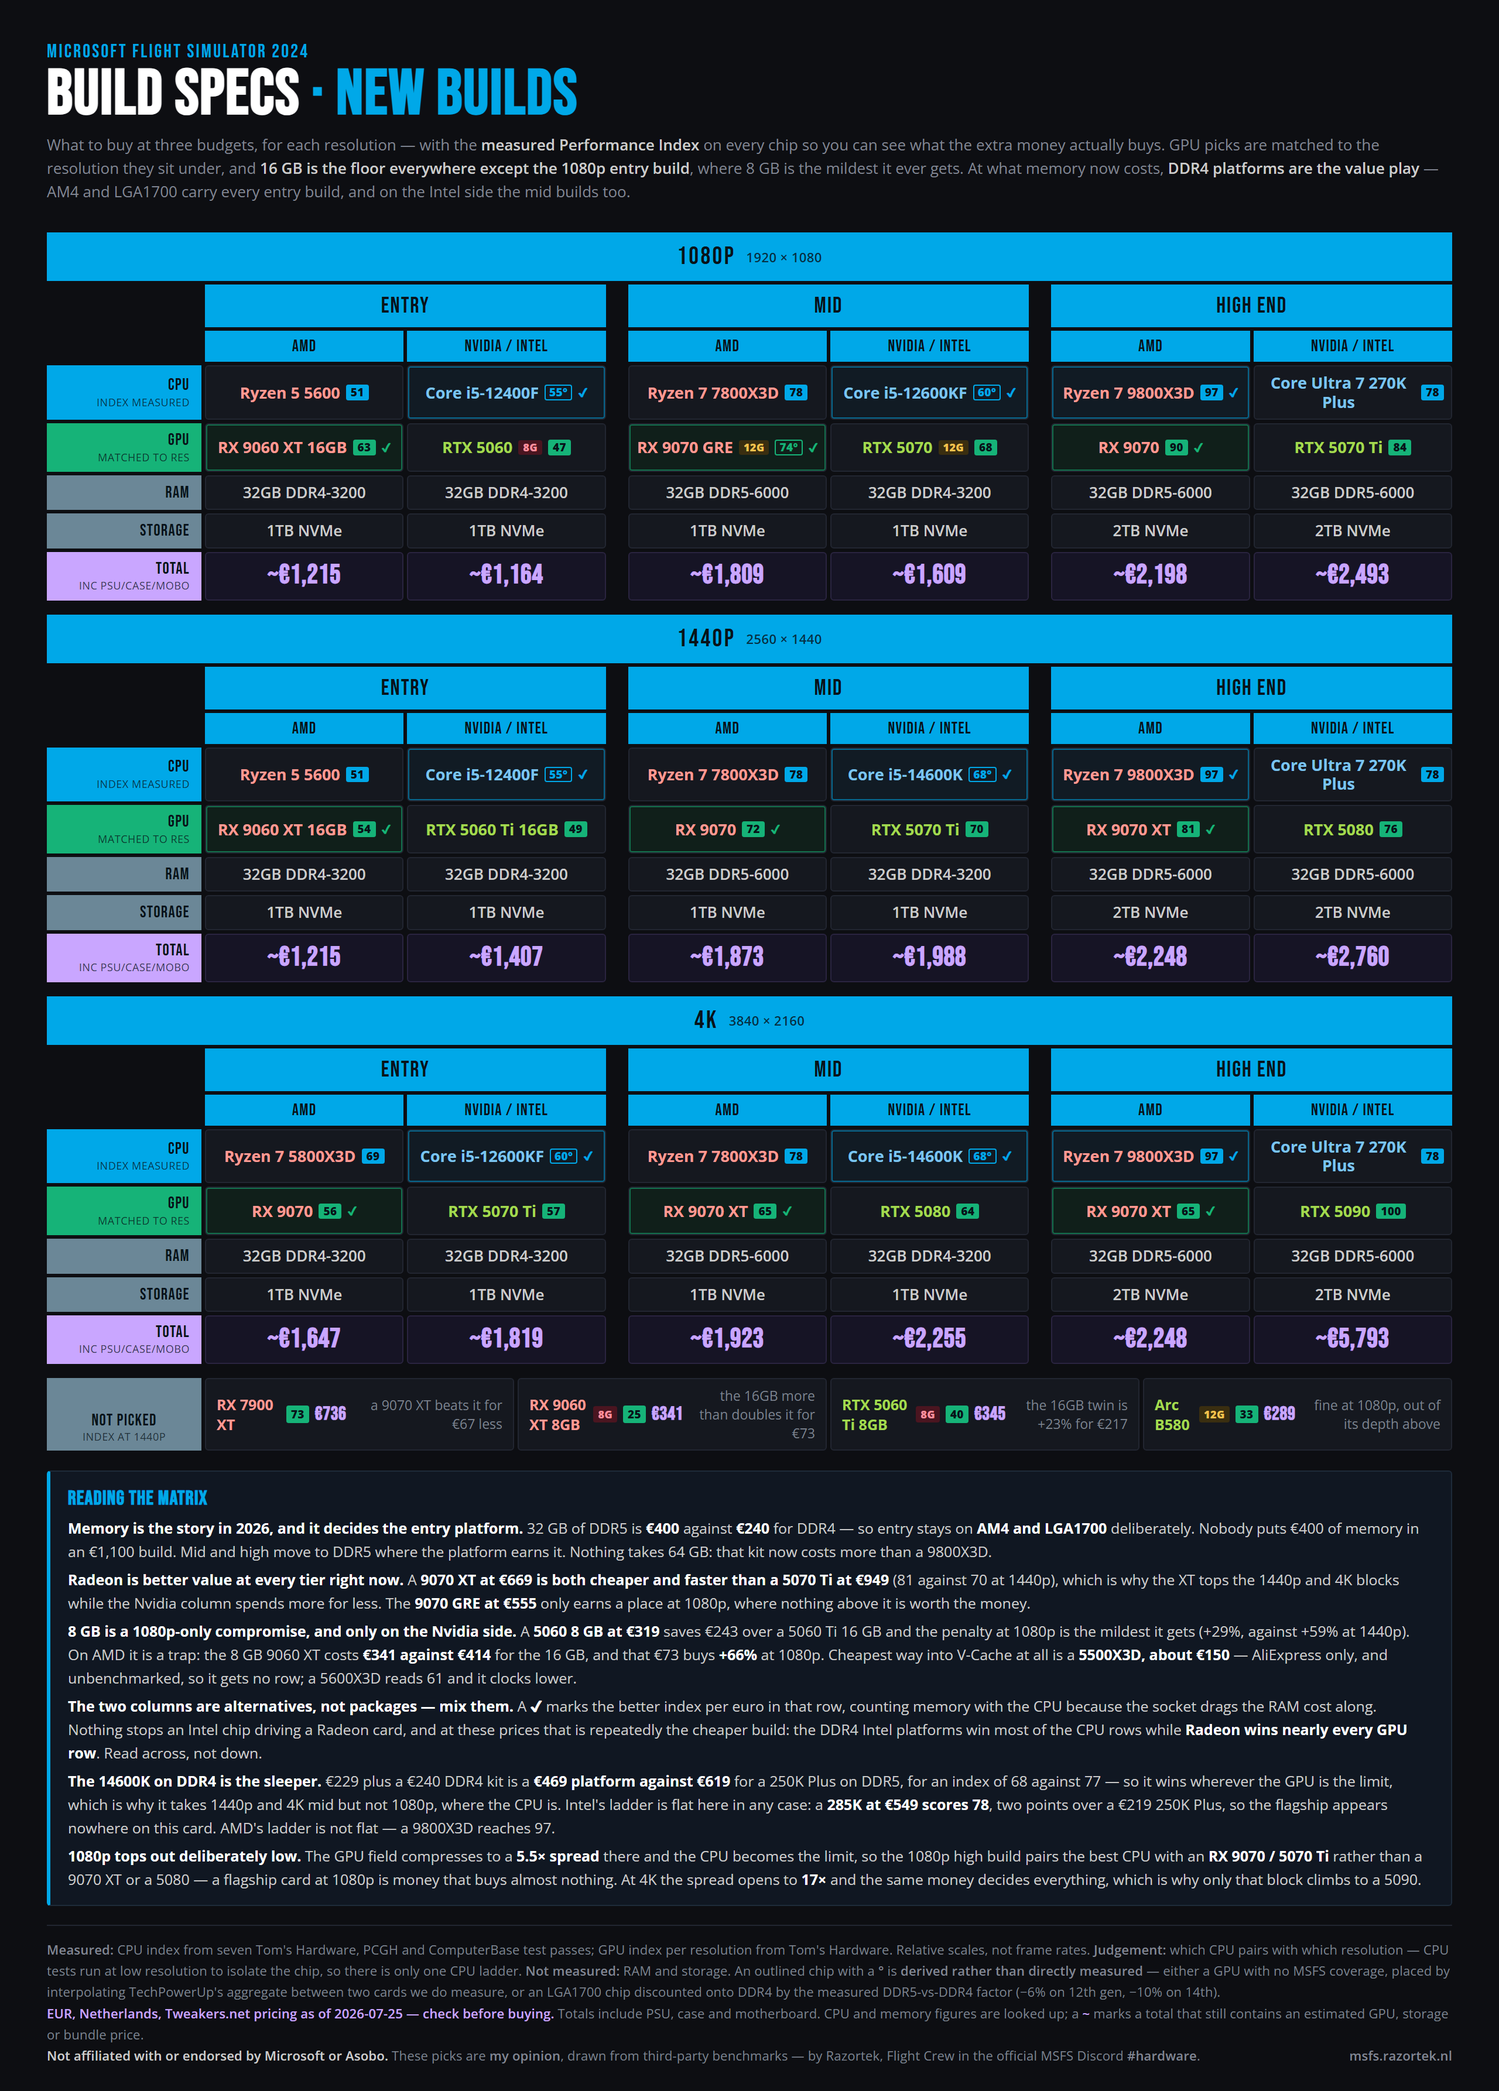
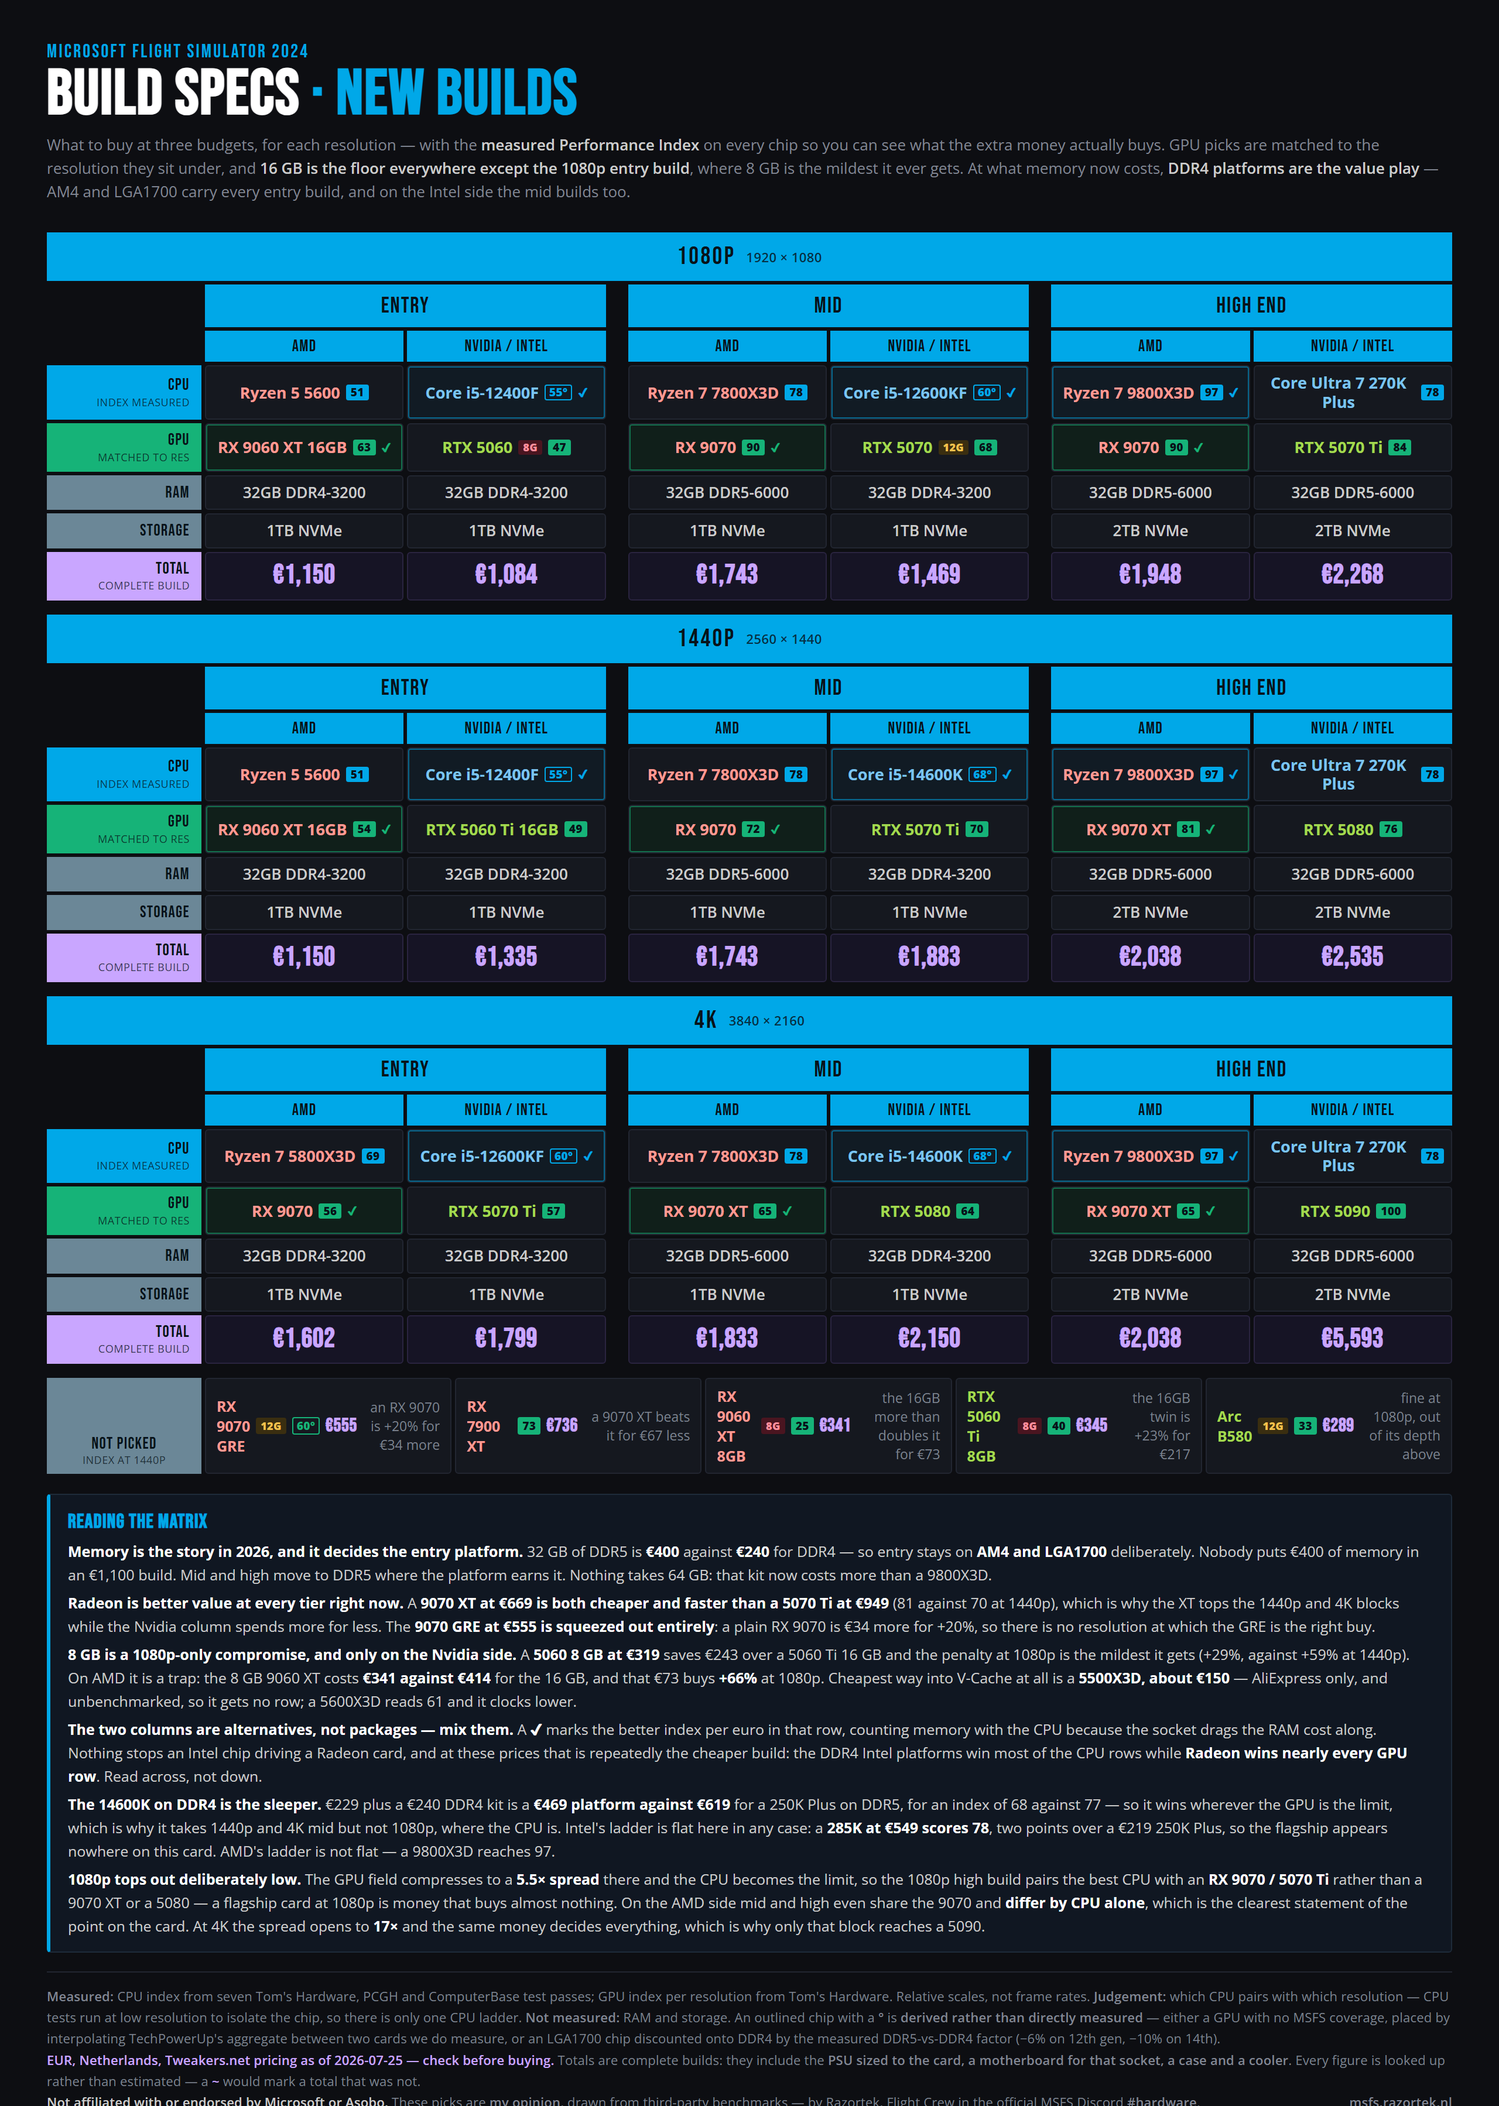
Real PSU/board/case/cooler prices; RX 9070 at 589 squeezes out the GRE
Replaces the six estimated bundle figures with a component model composed
per build, so every total on the card is now a looked-up figure and no build
carries a ~ any more.

  PSU     sized by the card it feeds, 50 to 115 EUR across five tiers
  board   by socket and memory type, with a dearer tier for flagships and
          K-series parts (9800X3D, 14600K) that want more than a bargain VRM
  cooler  120mm single tower, dual tower, or a 360mm AIO for the hot Intel
          parts -- so a 270K Plus carries 75 EUR of cooling and a 5600 15
  case    75 EUR flat

The rules live in make_build_table.py and the prices in the CSV, so the
bundle follows the picks automatically instead of being a per-tier guess.
Totals drop 60-200 EUR as a result: the old flat bundles were too generous
at entry and too mean at the top.

The real 9070 price at 589 also removes the GRE from the matrix again. At 34
EUR less for 20% fewer points it is dominated, so 1080p mid takes the plain
9070 and the GRE returns to the "not picked" strip with that as its reason.
That leaves 1080p mid and high sharing the 9070 and differing by CPU alone,
which is the sharpest statement of the card's own argument: above that card,
1080p is buying nothing.

Changed region(s): [[0.0312, 0.1243, 0.9688, 1.0], [0.0312, 0.0622, 0.9062, 0.0932]]

diff --git a/tierlist_card_build.html b/tierlist_card_build.html
@@ -165,8 +165,8 @@ h1 em{font-style:normal;color:var(--acc)}
     <p><b>Radeon is better value at every tier right now.</b> A <b>9070 XT at €669 is both
     cheaper and faster than a 5070 Ti at €949</b> (81 against 70 at 1440p), which is why
     the XT tops the 1440p and 4K blocks while the Nvidia column spends more for less. The
-    <b>9070 GRE at €555</b> only earns a place at 1080p, where nothing above it is worth
-    the money.</p>
+    <b>9070 GRE at €555 is squeezed out entirely</b>: a plain RX 9070 is €34 more for +20%,
+    so there is no resolution at which the GRE is the right buy.</p>
     <p><b>8 GB is a 1080p-only compromise, and only on the Nvidia side.</b> A
     <b>5060 8 GB at €319</b> saves €243 over a 5060 Ti 16 GB and the penalty at 1080p is
     the mildest it gets (+29%, against +59% at 1440p). On AMD it is a trap: the 8 GB
@@ -187,9 +187,10 @@ h1 em{font-style:normal;color:var(--acc)}
     <p><b>1080p tops out deliberately low.</b> The GPU field compresses to a
     <b>5.5× spread</b> there and the CPU becomes the limit, so the 1080p high build pairs
     the best CPU with an <b>RX 9070 / 5070 Ti</b> rather than a 9070 XT or a 5080 — a
-    flagship card at 1080p is money that buys almost nothing. At 4K the spread opens to
-    <b>17×</b> and the same money decides everything, which is why only that block climbs
-    to a 5090.</p>
+    flagship card at 1080p is money that buys almost nothing. On the AMD side mid and high
+    even share the 9070 and <b>differ by CPU alone</b>, which is the clearest statement of
+    the point on the card. At 4K the spread opens to <b>17×</b> and the same money decides
+    everything, which is why only that block reaches a 5090.</p>
   </div>
 
   <div class="foot">
@@ -203,9 +204,10 @@ h1 em{font-style:normal;color:var(--acc)}
     LGA1700 chip discounted onto DDR4 by the measured DDR5-vs-DDR4 factor (−6% on 12th
     gen, −10% on 14th).<br/>
     <b class="price">EUR, Netherlands, Tweakers.net pricing as of <span id="pon"></span> —
-    check before buying.</b> Totals include PSU, case and motherboard. CPU and memory
-    figures are looked up; a <b class="price">~</b> marks a total that still contains an
-    estimated GPU, storage or bundle price.<br/>
+    check before buying.</b> Totals are complete builds: they include the
+    <b>PSU sized to the card, a motherboard for that socket, a case and a cooler</b>. Every
+    figure is looked up rather than estimated — a <b class="price">~</b> would mark a total
+    that was not.<br/>
     <b class="dis">Not affiliated with or endorsed by Microsoft or Asobo.</b> These picks
     are <b>my opinion</b>, drawn from third-party benchmarks — by Razortek, Flight Crew
     in the official MSFS Discord <b>#hardware</b>.
@@ -219,48 +221,49 @@ const PRICED_ON = "2026-07-25";
 const BUILDS = {
 "1080p": {
   "entry": [
-    { v:"amd", cpu:"Ryzen 5 5600", ci:51, cd:false, cbest:false, gpu:"RX 9060 XT 16GB", gi:63, gd:false, gbest:true, vram:16, ram:"32GB DDR4-3200", sto:"1TB NVMe", eur:1215, approx:true },
-    { v:"nv", cpu:"Core i5-12400F", ci:55, cd:true, cbest:true, gpu:"RTX 5060", gi:47, gd:false, gbest:false, vram:8, ram:"32GB DDR4-3200", sto:"1TB NVMe", eur:1164, approx:true }
+    { v:"amd", cpu:"Ryzen 5 5600", ci:51, cd:false, cbest:false, gpu:"RX 9060 XT 16GB", gi:63, gd:false, gbest:true, vram:16, ram:"32GB DDR4-3200", sto:"1TB NVMe", eur:1150, approx:false },
+    { v:"nv", cpu:"Core i5-12400F", ci:55, cd:true, cbest:true, gpu:"RTX 5060", gi:47, gd:false, gbest:false, vram:8, ram:"32GB DDR4-3200", sto:"1TB NVMe", eur:1084, approx:false }
   ],
   "mid": [
-    { v:"amd", cpu:"Ryzen 7 7800X3D", ci:78, cd:false, cbest:false, gpu:"RX 9070 GRE", gi:74, gd:true, gbest:true, vram:12, ram:"32GB DDR5-6000", sto:"1TB NVMe", eur:1809, approx:true },
-    { v:"nv", cpu:"Core i5-12600KF", ci:60, cd:true, cbest:true, gpu:"RTX 5070", gi:68, gd:false, gbest:false, vram:12, ram:"32GB DDR4-3200", sto:"1TB NVMe", eur:1609, approx:true }
+    { v:"amd", cpu:"Ryzen 7 7800X3D", ci:78, cd:false, cbest:false, gpu:"RX 9070", gi:90, gd:false, gbest:true, vram:16, ram:"32GB DDR5-6000", sto:"1TB NVMe", eur:1743, approx:false },
+    { v:"nv", cpu:"Core i5-12600KF", ci:60, cd:true, cbest:true, gpu:"RTX 5070", gi:68, gd:false, gbest:false, vram:12, ram:"32GB DDR4-3200", sto:"1TB NVMe", eur:1469, approx:false }
   ],
   "high": [
-    { v:"amd", cpu:"Ryzen 7 9800X3D", ci:97, cd:false, cbest:true, gpu:"RX 9070", gi:90, gd:false, gbest:true, vram:16, ram:"32GB DDR5-6000", sto:"2TB NVMe", eur:2198, approx:true },
-    { v:"nv", cpu:"Core Ultra 7 270K Plus", ci:78, cd:false, cbest:false, gpu:"RTX 5070 Ti", gi:84, gd:false, gbest:false, vram:16, ram:"32GB DDR5-6000", sto:"2TB NVMe", eur:2493, approx:true }
+    { v:"amd", cpu:"Ryzen 7 9800X3D", ci:97, cd:false, cbest:true, gpu:"RX 9070", gi:90, gd:false, gbest:true, vram:16, ram:"32GB DDR5-6000", sto:"2TB NVMe", eur:1948, approx:false },
+    { v:"nv", cpu:"Core Ultra 7 270K Plus", ci:78, cd:false, cbest:false, gpu:"RTX 5070 Ti", gi:84, gd:false, gbest:false, vram:16, ram:"32GB DDR5-6000", sto:"2TB NVMe", eur:2268, approx:false }
   ],
 },
 "1440p": {
   "entry": [
-    { v:"amd", cpu:"Ryzen 5 5600", ci:51, cd:false, cbest:false, gpu:"RX 9060 XT 16GB", gi:54, gd:false, gbest:true, vram:16, ram:"32GB DDR4-3200", sto:"1TB NVMe", eur:1215, approx:true },
-    { v:"nv", cpu:"Core i5-12400F", ci:55, cd:true, cbest:true, gpu:"RTX 5060 Ti 16GB", gi:49, gd:false, gbest:false, vram:16, ram:"32GB DDR4-3200", sto:"1TB NVMe", eur:1407, approx:true }
+    { v:"amd", cpu:"Ryzen 5 5600", ci:51, cd:false, cbest:false, gpu:"RX 9060 XT 16GB", gi:54, gd:false, gbest:true, vram:16, ram:"32GB DDR4-3200", sto:"1TB NVMe", eur:1150, approx:false },
+    { v:"nv", cpu:"Core i5-12400F", ci:55, cd:true, cbest:true, gpu:"RTX 5060 Ti 16GB", gi:49, gd:false, gbest:false, vram:16, ram:"32GB DDR4-3200", sto:"1TB NVMe", eur:1335, approx:false }
   ],
   "mid": [
-    { v:"amd", cpu:"Ryzen 7 7800X3D", ci:78, cd:false, cbest:false, gpu:"RX 9070", gi:72, gd:false, gbest:true, vram:16, ram:"32GB DDR5-6000", sto:"1TB NVMe", eur:1873, approx:true },
-    { v:"nv", cpu:"Core i5-14600K", ci:68, cd:true, cbest:true, gpu:"RTX 5070 Ti", gi:70, gd:false, gbest:false, vram:16, ram:"32GB DDR4-3200", sto:"1TB NVMe", eur:1988, approx:true }
+    { v:"amd", cpu:"Ryzen 7 7800X3D", ci:78, cd:false, cbest:false, gpu:"RX 9070", gi:72, gd:false, gbest:true, vram:16, ram:"32GB DDR5-6000", sto:"1TB NVMe", eur:1743, approx:false },
+    { v:"nv", cpu:"Core i5-14600K", ci:68, cd:true, cbest:true, gpu:"RTX 5070 Ti", gi:70, gd:false, gbest:false, vram:16, ram:"32GB DDR4-3200", sto:"1TB NVMe", eur:1883, approx:false }
   ],
   "high": [
-    { v:"amd", cpu:"Ryzen 7 9800X3D", ci:97, cd:false, cbest:true, gpu:"RX 9070 XT", gi:81, gd:false, gbest:true, vram:16, ram:"32GB DDR5-6000", sto:"2TB NVMe", eur:2248, approx:true },
-    { v:"nv", cpu:"Core Ultra 7 270K Plus", ci:78, cd:false, cbest:false, gpu:"RTX 5080", gi:76, gd:false, gbest:false, vram:16, ram:"32GB DDR5-6000", sto:"2TB NVMe", eur:2760, approx:true }
+    { v:"amd", cpu:"Ryzen 7 9800X3D", ci:97, cd:false, cbest:true, gpu:"RX 9070 XT", gi:81, gd:false, gbest:true, vram:16, ram:"32GB DDR5-6000", sto:"2TB NVMe", eur:2038, approx:false },
+    { v:"nv", cpu:"Core Ultra 7 270K Plus", ci:78, cd:false, cbest:false, gpu:"RTX 5080", gi:76, gd:false, gbest:false, vram:16, ram:"32GB DDR5-6000", sto:"2TB NVMe", eur:2535, approx:false }
   ],
 },
 "4K": {
   "entry": [
-    { v:"amd", cpu:"Ryzen 7 5800X3D", ci:69, cd:false, cbest:false, gpu:"RX 9070", gi:56, gd:false, gbest:true, vram:16, ram:"32GB DDR4-3200", sto:"1TB NVMe", eur:1647, approx:true },
-    { v:"nv", cpu:"Core i5-12600KF", ci:60, cd:true, cbest:true, gpu:"RTX 5070 Ti", gi:57, gd:false, gbest:false, vram:16, ram:"32GB DDR4-3200", sto:"1TB NVMe", eur:1819, approx:true }
+    { v:"amd", cpu:"Ryzen 7 5800X3D", ci:69, cd:false, cbest:false, gpu:"RX 9070", gi:56, gd:false, gbest:true, vram:16, ram:"32GB DDR4-3200", sto:"1TB NVMe", eur:1602, approx:false },
+    { v:"nv", cpu:"Core i5-12600KF", ci:60, cd:true, cbest:true, gpu:"RTX 5070 Ti", gi:57, gd:false, gbest:false, vram:16, ram:"32GB DDR4-3200", sto:"1TB NVMe", eur:1799, approx:false }
   ],
   "mid": [
-    { v:"amd", cpu:"Ryzen 7 7800X3D", ci:78, cd:false, cbest:false, gpu:"RX 9070 XT", gi:65, gd:false, gbest:true, vram:16, ram:"32GB DDR5-6000", sto:"1TB NVMe", eur:1923, approx:true },
-    { v:"nv", cpu:"Core i5-14600K", ci:68, cd:true, cbest:true, gpu:"RTX 5080", gi:64, gd:false, gbest:false, vram:16, ram:"32GB DDR4-3200", sto:"1TB NVMe", eur:2255, approx:true }
+    { v:"amd", cpu:"Ryzen 7 7800X3D", ci:78, cd:false, cbest:false, gpu:"RX 9070 XT", gi:65, gd:false, gbest:true, vram:16, ram:"32GB DDR5-6000", sto:"1TB NVMe", eur:1833, approx:false },
+    { v:"nv", cpu:"Core i5-14600K", ci:68, cd:true, cbest:true, gpu:"RTX 5080", gi:64, gd:false, gbest:false, vram:16, ram:"32GB DDR4-3200", sto:"1TB NVMe", eur:2150, approx:false }
   ],
   "high": [
-    { v:"amd", cpu:"Ryzen 7 9800X3D", ci:97, cd:false, cbest:true, gpu:"RX 9070 XT", gi:65, gd:false, gbest:true, vram:16, ram:"32GB DDR5-6000", sto:"2TB NVMe", eur:2248, approx:true },
-    { v:"nv", cpu:"Core Ultra 7 270K Plus", ci:78, cd:false, cbest:false, gpu:"RTX 5090", gi:100, gd:false, gbest:false, vram:32, ram:"32GB DDR5-6000", sto:"2TB NVMe", eur:5793, approx:true }
+    { v:"amd", cpu:"Ryzen 7 9800X3D", ci:97, cd:false, cbest:true, gpu:"RX 9070 XT", gi:65, gd:false, gbest:true, vram:16, ram:"32GB DDR5-6000", sto:"2TB NVMe", eur:2038, approx:false },
+    { v:"nv", cpu:"Core Ultra 7 270K Plus", ci:78, cd:false, cbest:false, gpu:"RTX 5090", gi:100, gd:false, gbest:false, vram:32, ram:"32GB DDR5-6000", sto:"2TB NVMe", eur:5593, approx:false }
   ],
 },
 };
 const NOT_PICKED = [
+  { p:"RX 9070 GRE", eur:555, gi:60, gd:true, vram:12, why:"an RX 9070 is +20% for €34 more" },
   { p:"RX 7900 XT", eur:736, gi:73, gd:false, vram:20, why:"a 9070 XT beats it for €67 less" },
   { p:"RX 9060 XT 8GB", eur:341, gi:25, gd:false, vram:8, why:"the 16GB more than doubles it for €73" },
   { p:"RTX 5060 Ti 8GB", eur:345, gi:40, gd:false, vram:8, why:"the 16GB twin is +23% for €217" },
@@ -275,7 +278,7 @@ const ROWS = [
   { key:"gpu",  label:"GPU",     group:"gpu", sub:"matched to res", chip:"gi" },
   { key:"ram",  label:"RAM",     group:"mem", plain:1 },
   { key:"sto",  label:"Storage", group:"mem", plain:1 },
-  { key:"eur",  label:"Total",   group:"eur", sub:"inc PSU/case/mobo", eur:1 },
+  { key:"eur",  label:"Total",   group:"eur", sub:"complete build", eur:1 },
 ];
 // an Intel CPU sits in the nv column, so the CPU row tints differently to the GPU row
 const tint = (row, v) => row.key === "cpu" ? (v === "amd" ? "amd" : "intel")

diff --git a/make_build_table.py b/make_build_table.py
@@ -57,10 +57,55 @@ DDR4_FACTOR = {12: 0.936, 13: 0.887, 14: 0.898}
 # VRAM for cards that are not in gpu_data.json, so they still get a memory tag.
 VRAM_EXTRA = {'RX 9070 GRE': 12}
 
+# ---- the rest of the build, composed rather than carried as one bundle figure -------
+# PSU sized by the card it has to feed. Anything not listed takes the 650W unit.
+PSU = {
+    'RTX 5090': 'psu_1000',
+    'RTX 5080': 'psu_850', 'RTX 5070 Ti': 'psu_850',
+    'RX 9070 XT': 'psu_850', 'RX 7900 XT': 'psu_850',
+    'RTX 5070': 'psu_750a', 'RX 9070': 'psu_750a',
+    'RTX 5060 Ti 16GB': 'psu_750b', 'RTX 5060 Ti 8GB': 'psu_750b',
+    'RX 9070 GRE': 'psu_750b',
+}
+PSU_DEFAULT = 'psu_650'
+
+# Chips that want a better board than the cheapest B-series: flagships, and K-series
+# parts whose VRM demands are more than a bargain board is happy with.
+MB_GREAT = {'Ryzen 7 9800X3D', 'Core i5-14600K'}
+
+# 360mm AIO territory (the hot Intel parts) and dual-tower territory. Everything else
+# takes the 120mm single tower.
+COOLER_AIO = {'Core Ultra 9 285K', 'Core Ultra 7 270K Plus', 'Core i7-14700K'}
+COOLER_MID = {'Ryzen 7 9800X3D', 'Ryzen 7 7800X3D', 'Ryzen 7 5800X3D',
+              'Core i5-12600KF', 'Core i5-14600K', 'Ryzen 5 9600X'}
+
+
+def psu_for(gpu):
+    return PSU.get(gpu, PSU_DEFAULT)
+
+
+def mb_for(cpu, socket, ram):
+    great = '_great' if cpu in MB_GREAT else ''
+    if socket == 'AM4':
+        return 'mb_am4'                     # no great tier: B550 is the sensible ceiling
+    if socket == 'AM5':
+        return 'mb_am5' + great
+    if socket == 'LGA1851':
+        return 'mb_lga1851'
+    if socket == 'LGA1700':
+        return 'mb_lga1700_ddr4' + great if 'DDR4' in ram else 'mb_lga1700_ddr5' + great
+    return None
+
+
+def cooler_for(cpu):
+    return ('cooler_aio' if cpu in COOLER_AIO else
+            'cooler_mid' if cpu in COOLER_MID else 'cooler_entry')
+
 # Priced, plausible, but beaten on value by something already in the matrix. Listed
 # under it because "why isn't X in here?" is the question that always follows.
 # (part, reason) — index shown is at 1440p.
 NOT_PICKED = [
+    ('RX 9070 GRE', 'an RX 9070 is +20% for €34 more'),
     ('RX 7900 XT', 'a 9070 XT beats it for €67 less'),
     ('RX 9060 XT 8GB', 'the 16GB more than doubles it for €73'),
     ('RTX 5060 Ti 8GB', 'the 16GB twin is +23% for €217'),
@@ -159,8 +204,12 @@ def main():
                 warn('%s is on DDR4 but has no measured DDR4 factor' % cpu)
 
         # total — any missing part kills the total rather than under-reporting it
-        bundle = 'bundle_%s_%s' % (tier, ven)
-        parts = [cpu, gpu, ram, sto, bundle]
+        mb = mb_for(cpu, socket, ram)
+        if mb is None:
+            warn('no motherboard rule for %s on %r' % (cpu, socket))
+        parts = [cpu, gpu, ram, sto, psu_for(gpu), cooler_for(cpu), 'case']
+        if mb:
+            parts.append(mb)
         missing = [p for p in parts if p not in prices]
         for p in missing:
             warn('no price for %r (needed by %s/%s/%s)' % (p, res, tier, ven))
